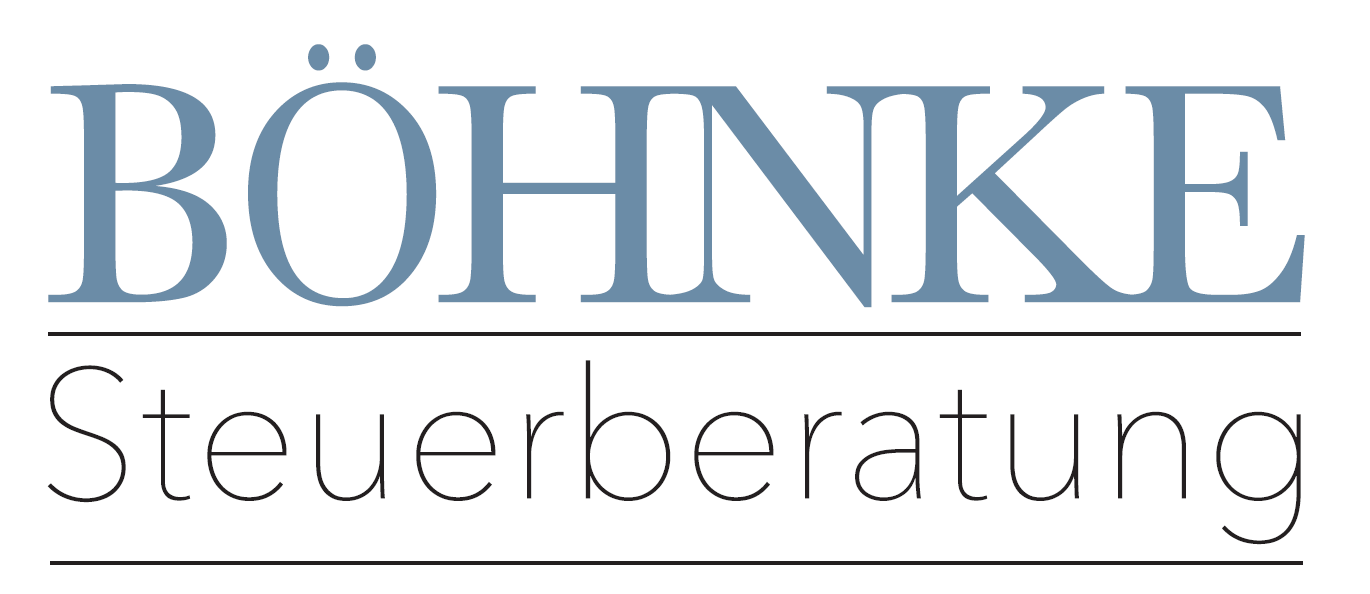
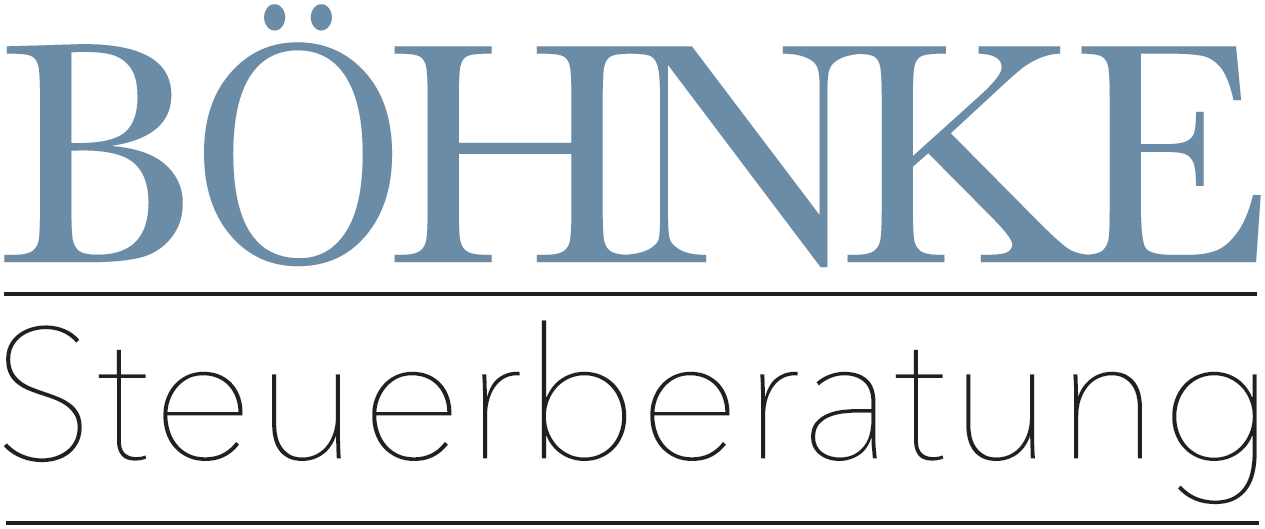
feat: größere Sponsorlogos in der Vorschau, Ergebnisse vorerst ohne Sponsoren
- Vorschau: Logofläche 58×28 statt 46×22 Einheiten (Variante B)
- Ergebnisse: StoryRenderer übergibt kein Sponsorlogo; Zeichnung bleibt im Code
- Logos Böhnke, Stockmeyer, Mittelstedt auf den Inhalt zugeschnitten

Claude-Session: https://claude.ai/code/session_01G7vH2ntEubd7XdCnu9Uiku

Changed region(s): [[0.0, 0.0, 1.0, 0.5142], [0.0, 0.6049, 1.0, 0.9981], [0.0, 0.5444, 1.0, 0.5747]]

diff --git a/EventToInsta.Tests/Rendering/JugendStoryTests.cs b/EventToInsta.Tests/Rendering/JugendStoryTests.cs
@@ -41,6 +41,17 @@ public sealed class JugendStoryTests : IDisposable
         new(new AssetStore(_dir, new Dictionary<string, string> { ["U12"] = "sponsor.png", ["U14"] = "sponsor.png" }),
             new NoLogos(), "Bad Laer");
 
+    /// <summary>Ergebnis direkt mit Sponsor zeichnen (der StoryRenderer übergibt bei Ergebnissen vorerst keinen).</summary>
+    private RenderedStory RenderResultWithSponsors(JugendResult r)
+    {
+        var assets = new AssetStore(_dir, new Dictionary<string, string> { ["U12"] = "sponsor.png", ["U14"] = "sponsor.png" });
+        using var bmp = new SKBitmap(1080, 1920);
+        using (var c = new SKCanvas(bmp)) JugendStory.DrawResult(c, r, assets.SponsorLogo);
+        using var image = SKImage.FromBitmap(bmp);
+        using var data = image.Encode(SKEncodedImageFormat.Png, 100);
+        return new RenderedStory(r.FileName, data.ToArray());
+    }
+
     private static Game Jugend(
         int id, string age, bool home = true, string opponent = "SC Melle II", Score? result = null,
         string? place = null, DateTime? kickoff = null)
@@ -182,7 +193,18 @@ public sealed class JugendStoryTests : IDisposable
     }
 
     [Fact]
-    public async Task Result_WithSponsor_DrawsSponsorLogoOnlyForSponsoredAgeClass()
+    public async Task Result_ViaRenderer_ShowsNoSponsorLogo()
+    {
+        var games = new[] { Jugend(1, "U12", home: true, result: new Score(54, 38)) }; // U12 hat einen Sponsor
+
+        var story = await Renderer().RenderAsync(new JugendResult(new DateOnly(2026, 11, 28), games, 1, 1));
+
+        using var bmp = Decode(story);
+        Assert.Equal(0, CountRed(bmp, JugendStory.Layout(1).Cards[0]));
+    }
+
+    [Fact]
+    public void Result_WithSponsor_DrawsSponsorLogoOnlyForSponsoredAgeClass()
     {
         var games = new[]
         {
@@ -190,7 +212,7 @@ public sealed class JugendStoryTests : IDisposable
             Jugend(2, "U16", home: false, result: new Score(47, 41)),  // kein Sponsor
         };
 
-        var story = await Renderer().RenderAsync(new JugendResult(new DateOnly(2026, 11, 28), games, 1, 1));
+        var story = RenderResultWithSponsors(new JugendResult(new DateOnly(2026, 11, 28), games, 1, 1));
 
         using var bmp = Decode(story);
         var cards = JugendStory.Layout(2).Cards;
@@ -199,7 +221,7 @@ public sealed class JugendStoryTests : IDisposable
     }
 
     [Fact]
-    public async Task Result_SixSponsoredCardsLongNamesThreeDigitScores_DoesNotThrow()
+    public void Result_SixSponsoredCardsLongNamesThreeDigitScores_DoesNotThrow()
     {
         var name = "Turn- und Sportverein Bad Rothenfelde von 1898 e.V. Basketball";
         var games = Enumerable.Range(1, JugendStory.MaxCards)
@@ -207,7 +229,7 @@ public sealed class JugendStoryTests : IDisposable
                 result: i % 3 == 0 ? new Score(100, 101) : new Score(101, 100)))
             .ToList();
 
-        var story = await Renderer().RenderAsync(new JugendResult(new DateOnly(2026, 11, 28), games, 1, 1));
+        var story = RenderResultWithSponsors(new JugendResult(new DateOnly(2026, 11, 28), games, 1, 1));
 
         using var bmp = Decode(story);
         var layout = JugendStory.Layout(games.Count);
@@ -220,11 +242,11 @@ public sealed class JugendStoryTests : IDisposable
     }
 
     [Fact]
-    public async Task Result_WithSponsor_DrawsLogoInMiddleBlockBelowInfoLine()
+    public void Result_WithSponsor_DrawsLogoInMiddleBlockBelowInfoLine()
     {
         var games = new[] { Jugend(1, "U12", home: true, result: new Score(54, 38)) };
 
-        var story = await Renderer().RenderAsync(new JugendResult(new DateOnly(2026, 11, 28), games, 1, 1));
+        var story = RenderResultWithSponsors(new JugendResult(new DateOnly(2026, 11, 28), games, 1, 1));
 
         using var bmp = Decode(story);
         var card = JugendStory.Layout(1).Cards[0];

diff --git a/EventToInsta/Rendering/StoryRenderer.cs b/EventToInsta/Rendering/StoryRenderer.cs
@@ -28,7 +28,8 @@ public sealed class StoryRenderer(AssetStore assets, ILogoSource logos, string h
             case JugendPreview jp:
                 return Render(request, c => JugendStory.DrawPreview(c, jp, assets.SponsorLogo, homePlace));
             case JugendResult jr:
-                return Render(request, c => JugendStory.DrawResult(c, jr, assets.SponsorLogo));
+                // Sponsoren vorerst nur in der Vorschau (Entscheidung 24.11.2026); DrawResult kann sie weiterhin zeichnen.
+                return Render(request, c => JugendStory.DrawResult(c, jr, _ => null));
             default:
                 throw new NotSupportedException($"Unbekannte Story: {request.GetType().Name}");
         }

diff --git a/EventToInsta/Rendering/JugendStory.cs b/EventToInsta/Rendering/JugendStory.cs
@@ -38,8 +38,8 @@ public static class JugendStory
     private const float LineGap = 18;
 
     // Sponsor
-    private const float SponsorLogoWidth = 46 * S;
-    private const float SponsorLogoHeight = 22 * S;
+    private const float SponsorLogoWidth = 58 * S;
+    private const float SponsorLogoHeight = 28 * S;
     private const float SponsorLabelGap = 12;
 
     // Ergebniskarte mit Sponsor (Entwurf B in sponsor-results.html): kleine Zeile „unterstützt von [Logo]“

diff --git a/docs/superpowers/specs/2026-11-22-eventtoinsta-redesign-design.md b/docs/superpowers/specs/2026-11-22-eventtoinsta-redesign-design.md
@@ -142,8 +142,8 @@ Es gibt (noch) nicht genug Herren-Fotos. Deshalb hat der Auftraggeber am 22.11.2
 - Darunter steht eine Liste weißer, abgerundeter Karten, eine pro Spiel:
   - links ein blaues Quadrat mit der Altersklasse („U12“)
   - in der Mitte der Gegner („vs X“ bei Heimspielen, „@ X“ bei Auswärtsspielen; zu lange Namen werden mit „…“ gekürzt) und darunter eine Infozeile
-  - In der **Vorschau** lautet die Infozeile „Sa 28.11. · 10:00 Uhr“, ergänzt um „· in {Ort}“, wenn der Ort nicht Bad Laer ist. Rechts steht das Sponsorlogo mit „unterstützt von“, falls die Altersklasse einen Sponsor hat.
-  - Im **Ergebnis** lautet die Infozeile „Heim“ oder „Auswärts“. Rechts steht der Spielstand **aus Sicht von Bad Laer**, also mit den eigenen Punkten vorn, und darunter „SIEG“ oder „NIEDERLAGE“. Siege haben einen blauen linken Rand, Niederlagen einen grauen und abgeschwächten Spielstand. Hat die Altersklasse einen Sponsor, steht unter „Heim“/„Auswärts“ eine kleine, dezente Zeile „unterstützt von [Logo]“ (kleine graue Schrift, Logo etwa 1,6-mal so hoch wie die Schriftgröße, linksbündig mit dem Gegnernamen); Gegnername und Spielstand behalten ihre volle Breite (Variante B aus `sponsor-results.html`, Entscheidung des Auftraggebers vom 22.11.2026).
+  - In der **Vorschau** lautet die Infozeile „Sa 28.11. · 10:00 Uhr“, ergänzt um „· in {Ort}“, wenn der Ort nicht Bad Laer ist. Rechts steht das Sponsorlogo mit „unterstützt von“, falls die Altersklasse einen Sponsor hat (Logofläche höchstens 58 × 28 Einheiten, also etwa 209 × 101 px; Variante B, Entscheidung vom 24.11.2026).
+  - Im **Ergebnis** lautet die Infozeile „Heim“ oder „Auswärts“. Rechts steht der Spielstand **aus Sicht von Bad Laer**, also mit den eigenen Punkten vorn, und darunter „SIEG“ oder „NIEDERLAGE“. Siege haben einen blauen linken Rand, Niederlagen einen grauen und abgeschwächten Spielstand. **Vorerst ohne Sponsoren** (Entscheidung vom 24.11.2026; der Renderer übergibt kein Logo, die Zeichnung bleibt im Code). Früher galt: Hat die Altersklasse einen Sponsor, steht unter „Heim“/„Auswärts“ eine kleine, dezente Zeile „unterstützt von [Logo]“ (kleine graue Schrift, Logo etwa 1,6-mal so hoch wie die Schriftgröße, linksbündig mit dem Gegnernamen); Gegnername und Spielstand behalten ihre volle Breite (Variante B aus `sponsor-results.html`, Entscheidung des Auftraggebers vom 22.11.2026).
 - Die Fußzeile ist ein kurzer Slogan: in der Vorschau „KOMMT VORBEI & FEUERT UNS AN!“, im Ergebnis „STARK GESPIELT, TEAMS!“.
 - **Aufteilung:** Passt die Liste nicht auf ein Bild (Richtwert etwa 6 Karten), wird sie auf mehrere Bilder verteilt, und zwar gleichmäßig, also 7 Spiele als 4 + 3 und nicht als 6 + 1. Die Reihenfolge bleibt chronologisch.
 - Der Spielfeld-Hintergrund ist bei jeder Jugend-Story gleich (kein Zufall); `Images/Jugend/` wird nicht mehr verwendet.
